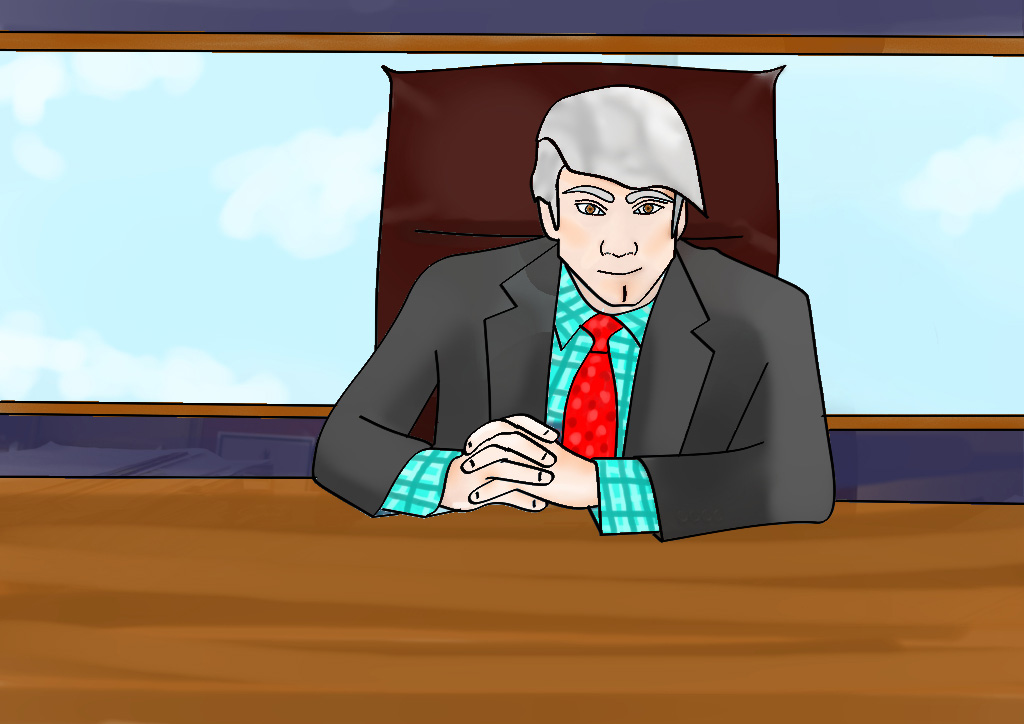
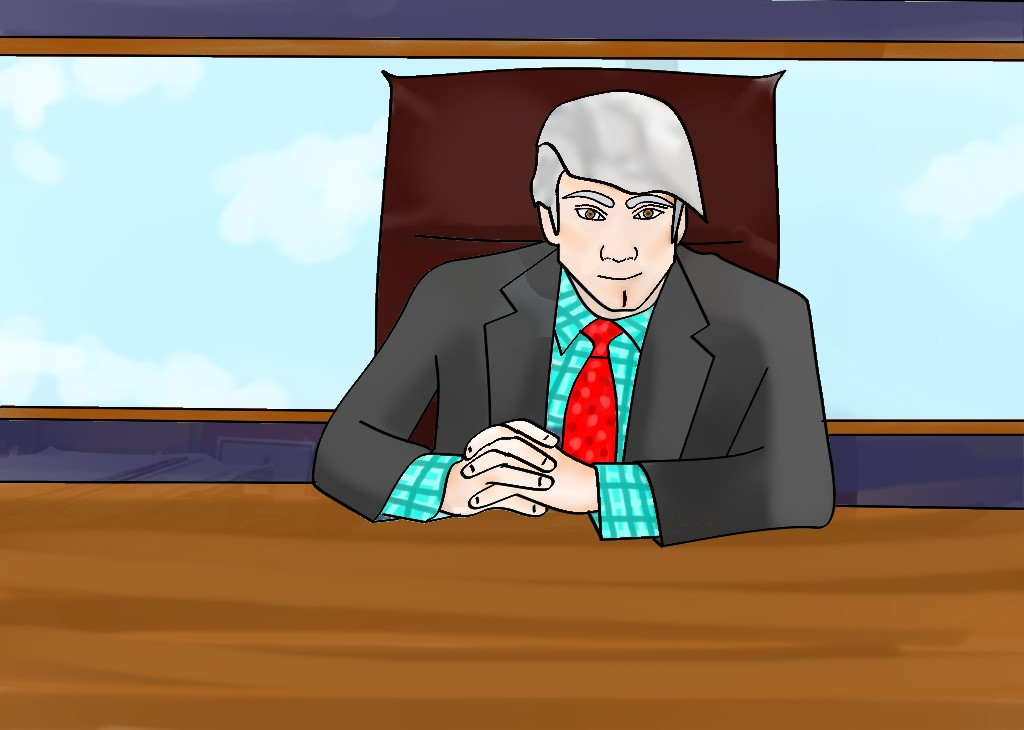
Implement animation event type

diff --git a/javasparrow-client/src/pages/seq/seq.ts b/javasparrow-client/src/pages/seq/seq.ts
@@ -1,6 +1,7 @@
 import { Component } from '@angular/core';
 import { IonicPage, NavController, NavParams } from 'ionic-angular';
 import { ToastProvider } from "../../providers/toast/toast";
+import { BehaviorSubject } from "rxjs/BehaviorSubject";
 
 /**
  * Generated class for the SeqPage page.
@@ -16,7 +17,7 @@ import { ToastProvider } from "../../providers/toast/toast";
 })
 export class SeqPage {
 
-  api: string = '{"events":[{"id":29,"eventType":"backgroundChange","data":{"image":"assets/img/duckAtDesk.jpg"}},{"id":5,"eventType":"text","data":{"content":"Welcome Agent Sparrow, always an honour to have such a talented spy in my office."}},{"id":23,"eventType":"backgroundChange","data":{"image":"assets/img/tech4learn_duckSlam.jpg"}},{"id":20,"eventType":"quiz","data":{"question":"What is a JavaScript array?","answers":["A dedicated data type","An regular JavaScript object"],"correctAnswer":"1","correctAnswerResponse":"Maybe I should be in that big chair!","correctAnswerResponseColor":"#1ee7e0","correctAnswerResponseItalic":"true","wrongAnswerResponse":"Woops, perhaps Javascript is a bit weird after all...", "wrongAnswerResponseColor":"#1ee7e0","wrongAnswerResponseItalic":"true"}},{"id":20,"eventType":"quiz","data":{"question":"What is a JavaScript array?","answers":["A dedicated data type","An regular JavaScript object"],"correctAnswer":"1","correctAnswerResponse":"Maybe I should be in that big chair!","correctAnswerResponseColor":"#1ee7e0","correctAnswerResponseItalic":"true","wrongAnswerResponse":"Woops, perhaps Javascript is a bit weird after all...", "wrongAnswerResponseColor":"#1ee7e0","wrongAnswerResponseItalic":"true"}}]}';
+  api: string = '{"events":[{"id":29,"eventType":"backgroundChange","data":{"image":"assets/img/duckAtDesk.jpg"}},{"id":5,"eventType":"text","data":{"content":"Welcome Agent Sparrow, always an honour to have such a talented spy in my office."}},{"id":23,"eventType":"backgroundChange","data":{"image":"assets/img/tech4learn_duckSlam.jpg"}},{"id":20,"eventType":"quiz","data":{"question":"What is a JavaScript array?","answers":["A dedicated data type","An regular JavaScript object"],"correctAnswer":"1","correctAnswerResponse":"Maybe I should be in that big chair!","correctAnswerResponseColor":"#1ee7e0","correctAnswerResponseItalic":"true","wrongAnswerResponse":"Woops, perhaps Javascript is a bit weird after all...", "wrongAnswerResponseColor":"#1ee7e0","wrongAnswerResponseItalic":"true"}},{"id":20,"eventType":"quiz","data":{"question":"What is a JavaScript array?","answers":["A dedicated data type","An regular JavaScript object"],"correctAnswer":"1","correctAnswerResponse":"Maybe I should be in that big chair!","correctAnswerResponseColor":"#1ee7e0","correctAnswerResponseItalic":"true","wrongAnswerResponse":"Woops, perhaps Javascript is a bit weird after all...", "wrongAnswerResponseColor":"#1ee7e0","wrongAnswerResponseItalic":"true"}},{"id":0,"eventType":"animation","data":{"frames":["assets/img/tech4learn_duckSlide_1.jpg","assets/img/tech4learn_duckSlide_2.jpg","assets/img/tech4learn_duckSlide_3.jpg","assets/img/tech4learn_duckSlide_4.jpg","assets/img/tech4learn_duckSlide_5.jpg"],"fps":2, "waitStart":3, "waitEnd":3}}]}';
   sequence: object[];
   currentEventIndex: number;
   currentEventType: string;
@@ -35,9 +36,12 @@ export class SeqPage {
   showNextButton: boolean = true;
 
   // Background
-  backgroundImage: string = "";
+  backgroundImage: BehaviorSubject<string>;
+  backgroundContrast: boolean = false;
 
   constructor(public navCtrl: NavController, public navParams: NavParams, public toast: ToastProvider) {
+    this.backgroundImage = new BehaviorSubject("");
+
     this.init(JSON.parse(this.api));
     this.next();
   }
@@ -67,7 +71,9 @@ export class SeqPage {
       this.doBackgroundChange();
     } else if (this.currentEventType == "quiz") {
       this.doQuiz();
-    } else {
+    } else if (this.currentEventType == "animation") {
+      this.doAnimation(this.sequence[this.currentEventIndex]['data']);
+    }else {
       console.error("Event type unknown: ", this.currentEventType);
       this.toast.error("Event type unknown. Contact a developer.");
       this.currentEventIndex--; // Rewind event index
@@ -91,8 +97,7 @@ export class SeqPage {
 
   doBackgroundChange() {
     // Change background
-    this.backgroundImage = this.sequence[this.currentEventIndex]['data']['image'];
-
+    this.backgroundImage.next(this.sequence[this.currentEventIndex]['data']['image']);
     // Immediately run next event
     this.next();
   }
@@ -107,6 +112,7 @@ export class SeqPage {
     this.showPrimaryText = true;
     this.showMultipleChoice = true;
     this.showNextButton = false;
+    this.backgroundContrast = true;
   }
 
   checkMultipleChoiceAnswer(ans: number) {
@@ -121,6 +127,34 @@ export class SeqPage {
     }
     this.showMultipleChoice = false;
     this.showNextButton = true;
+  }
+
+  doAnimation(data: object) {
+    // Set interface
+    this.showPrimaryText = false;
+    this.showMultipleChoice = false;
+    this.showNextButton = false;
+    this.backgroundContrast = false;
+
+    console.log("ANIMATION STARTED");
+    let frames: string[] = data['frames'];
+    let fps: number = data['fps'];
+
+    // Set starting wait time
+    setTimeout(() => {
+      console.log((data['waitStart'] * 1000));
+      frames.forEach((item, index) => {
+        setTimeout(() => {
+          this.backgroundImage.next(item);
+          console.log((1000 / fps) * (index + 1));
+        }, (1000 / fps) * (index));
+      })
+    }, (data['waitStart']*1000));
+
+    // Set ending wait time
+    setTimeout(() => {
+      this.next();
+    }, (data['waitStart']*1000 + ((1000 / fps) * frames.length) +  data['waitEnd']*1000));
   }
 
 

diff --git a/javasparrow-client/src/pages/seq/seq.scss b/javasparrow-client/src/pages/seq/seq.scss
@@ -7,7 +7,11 @@ page-seq {
     height: 100%;
     width: 100%;
     object-fit: cover;
+    transition: opacity 1s ease-in-out;
+  }
+  img.backgroundContrast {
     opacity: .3;
+    transition: opacity 1s ease-in-out;
   }
   .overlay {
     z-index: 1000;
@@ -17,6 +21,7 @@ page-seq {
     margin-bottom: 40px;
     width: 100%;
     padding: 50px;
+    text-shadow: 1px 1px 2px black;
     button {
       padding: 20px;
       margin: 10px;

diff --git a/javasparrow-client/src/pages/seq/seq.html b/javasparrow-client/src/pages/seq/seq.html
@@ -1,5 +1,5 @@
 <ion-content padding>
-  <img [src]="backgroundImage">
+  <img [ngClass]="{'backgroundContrast': backgroundContrast}" [src]="backgroundImage | async">
   <div class="overlay">
     <h1 *ngIf="showPrimaryText" [style.color]="primaryTextColor" [ngClass]="{'italic': primaryTextItalic}">{{ primaryText }}</h1>
     <seq-multiple-choice *ngIf="showMultipleChoice"
